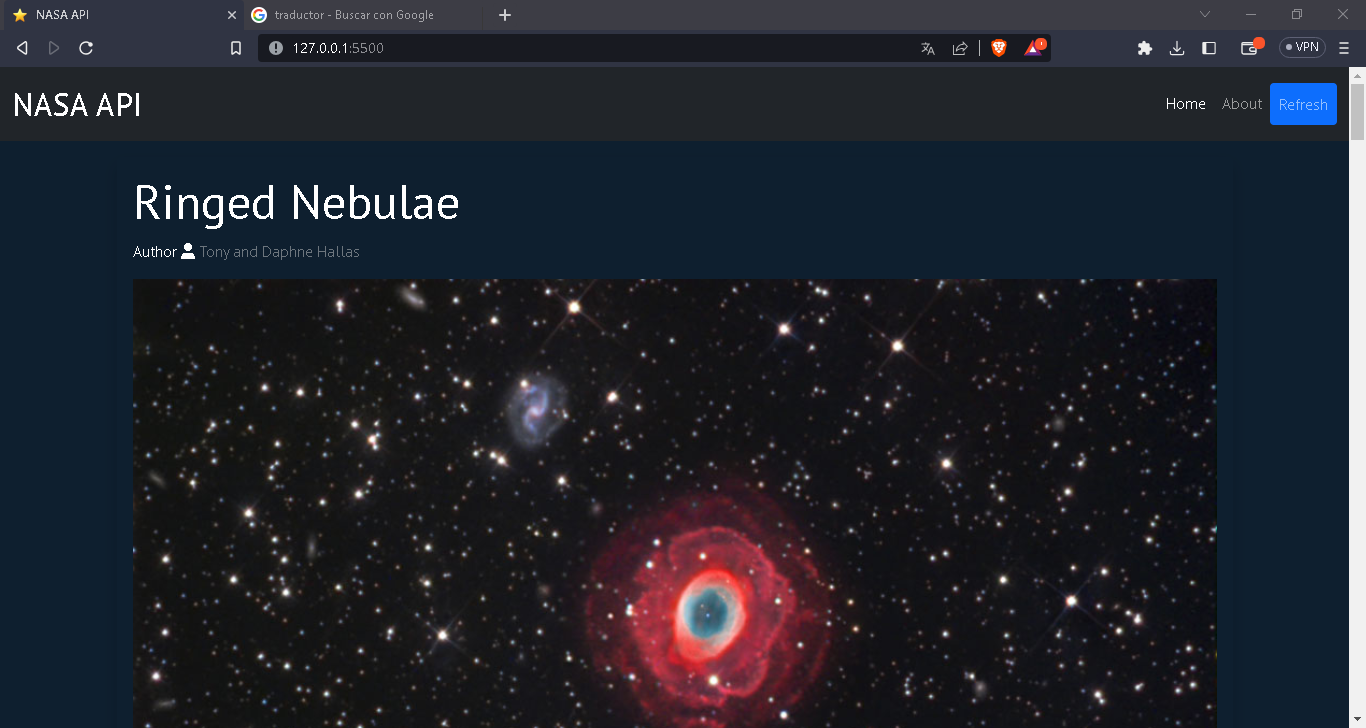
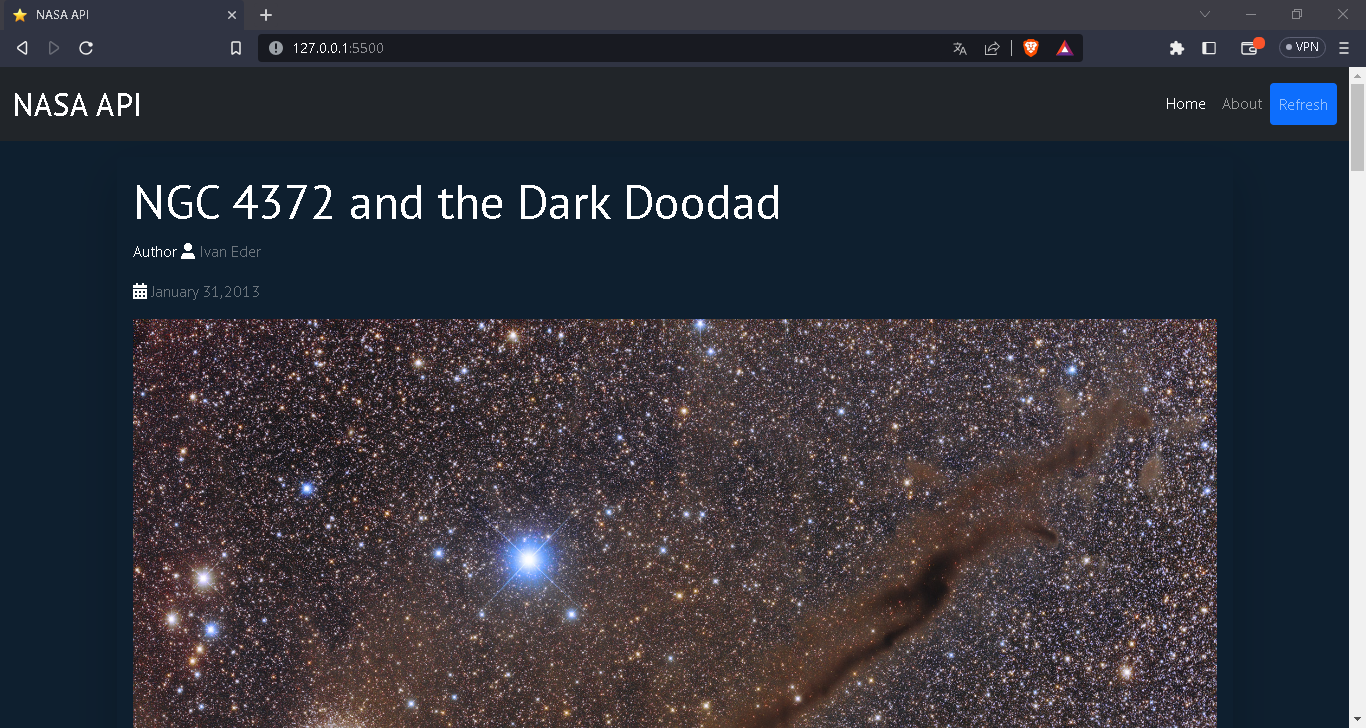
date added of each article

diff --git a/static/js/functions.js b/static/js/functions.js
@@ -1,57 +1,25 @@
-//variables
-const myKey = "bCTvDDFSEetLNv6WuUlzhRNptfTCNBPQmMy1aihZ";
-const apiUrl = "https://api.nasa.gov/planetary/apod?api_key=";
-
-function random(min, max) {
-  return Math.floor(Math.random() * (max - min + 1) + min);
-}
-
-function getRamdonDate() {
-  //1995 06 16 RestAPi permission
-
-  const currentYear = new Date().getFullYear();
-
-  const daysNumbers = random(1, 31);
-  const monthsNumbers = random(1, 12);
-  const year = random(1995, currentYear);
-
-  return `${year}-${monthsNumbers}-${daysNumbers}`;
-}
-
-const getData = async () => {
-  try {
-    const randomDate = getRamdonDate();
-    const request = apiUrl + myKey + "&date=" + randomDate;
-    const data = await fetch(request);
-    //showing request
-    console.log(request);
-    console.log("Date" + randomDate);
-
-    return data;
-  } catch (e) {
-    console.log(e);
-  }
-};
+import utils from "./utils.js";
 
 async function showImages(interations) {
   for (let i = 0; i < interations; i++) {
     //getting data
-    const data = await getData();
+    const data = await utils.getData();
     const jsonData = await data.json();
     console.log(jsonData);
 
     if (jsonData.media_type === "image") {
       const article = document.createElement("article");
-      article.className =
-        "shadow p-3 mb-5 text-white rounded explanationarticle";
+      article.className = "shadow-lg p-3 mb-5 text-white rounded";
 
       const titles = document.createElement("div");
-      titles.className = "d-inline";
 
       const title = document.createElement("h2");
       title.className = "display-5 text-white";
       title.innerText = jsonData.title;
+      titles.append(title);
 
+      const informationView = document.createElement("div");
+      informationView.className = "d-inline";
       const author = document.createElement("p");
       author.className = "text-muted";
 
@@ -63,19 +31,23 @@ async function showImages(interations) {
       } catch (TypeError) {
         author.innerHTML = '<i class="fa-sharp fa-solid fa-user" ></i> Unknow';
       }
-      // author.innerHTML =
-      //   '<span class="text-white">Author <i class="fa-sharp fa-solid fa-user" ></i></span>' +
-      //   ` ${jsonData.copyright.toString()}`;
 
-      titles.append(title);
-      titles.append(author);
+      const date = document.createElement("p");
+      date.className = "text-muted";
+      date.innerHTML =
+        `<span class="text-white"><i class="fa-sharp fa-solid fa-calendar-days"></i></span>` +
+        ` ${utils.getDateFormatedString(jsonData.date.toString())}`;
+
+      informationView.append(author);
+      informationView.append(date);
+      console.log(utils.getDateFormatedString(jsonData.date.toString()));
 
       const img = document.createElement("img");
       img.src = jsonData.hdurl;
       img.className = "image";
 
       const explanation = document.createElement("p");
-      explanation.className = "explanation";
+      explanation.className = "explanation lead";
       explanation.innerText = jsonData.explanation.toString();
 
       const div = document.createElement("div");
@@ -90,7 +62,7 @@ async function showImages(interations) {
 
       //adding
       article.append(titles);
-      article.append(author);
+      article.append(informationView);
       article.append(img);
       article.append(explanation);
       article.append(div);

diff --git a/static/js/utils.js b/static/js/utils.js
@@ -1,0 +1,82 @@
+//variables
+const myKey = "bCTvDDFSEetLNv6WuUlzhRNptfTCNBPQmMy1aihZ";
+const apiUrl = "https://api.nasa.gov/planetary/apod?api_key=";
+
+function random(min, max) {
+  return Math.floor(Math.random() * (max - min + 1) + min);
+}
+
+function getMonthName(number) {
+  if (number == 1) {
+    return "January";
+  } else if (number == 2) {
+    return "February";
+  } else if (number == 3) {
+    return "March";
+  } else if (number == 4) {
+    return "April";
+  } else if (number == 5) {
+    return "May";
+  } else if (number == 6) {
+    return "June";
+  } else if (number == 7) {
+    return "July";
+  } else if (number == 8) {
+    return "August";
+  } else if (number == 9) {
+    return "September";
+  } else if (number == 10) {
+    return "October";
+  } else if (number == 11) {
+    return "November";
+  } else if (number == 12) {
+    return "December";
+  } else {
+    return " ";
+  }
+}
+
+function getDateFormatedString(dateString) {
+  let newDateStringList = dateString.split("-");
+  let sortedDateString = newDateStringList.reverse().toString();
+  sortedDateString = sortedDateString.replaceAll(",", " ");
+  let sortedDateStringList = sortedDateString.split(" ");
+
+  sortedDateStringList = sortedDateStringList.map((e) => {
+    return parseInt(e);
+  });
+
+  const month = getMonthName(sortedDateString[1]);
+  const finalSorted = `${month} ${sortedDateStringList[0]},${sortedDateStringList[2]}`;
+
+  return finalSorted;
+}
+
+function getRamdonDate() {
+  //1995 06 16 RestAPi permission
+
+  const currentYear = new Date().getFullYear();
+
+  const daysNumbers = random(1, 31);
+  const monthsNumbers = random(1, 12);
+  const year = random(1995, currentYear);
+
+  return `${year}-${monthsNumbers}-${daysNumbers}`;
+}
+
+const getData = async () => {
+  try {
+    const randomDate = getRamdonDate();
+    const request = apiUrl + myKey + "&date=" + randomDate;
+    const data = await fetch(request);
+    //showing request
+    console.log(request);
+    console.log("Date" + randomDate);
+
+    return data;
+  } catch (e) {
+    console.log(e);
+  }
+};
+
+export default { getData, getDateFormatedString };

diff --git a/static/css/main.css b/static/css/main.css
@@ -8,6 +8,19 @@ body {
 body {
   background-image: url("../images/backgroundReduced.jpg");
   background-size: cover;
+
+  /* background: #000428; 
+  background: -webkit-linear-gradient(
+    to right,
+    #004e92,
+    #000428
+  );
+  background: linear-gradient(
+    to right,
+    #004e92,
+    #000428
+  ); */
+
   font-family: "PT Sans", sans-serif;
   width: 100%;
   margin: auto;
@@ -23,6 +36,6 @@ body {
 }
 
 .explanation {
-  padding: 1rem;
-  font-size: 1.5rem;
+  padding: 0.5rem;
+  font-size: 1.4rem;
 }
